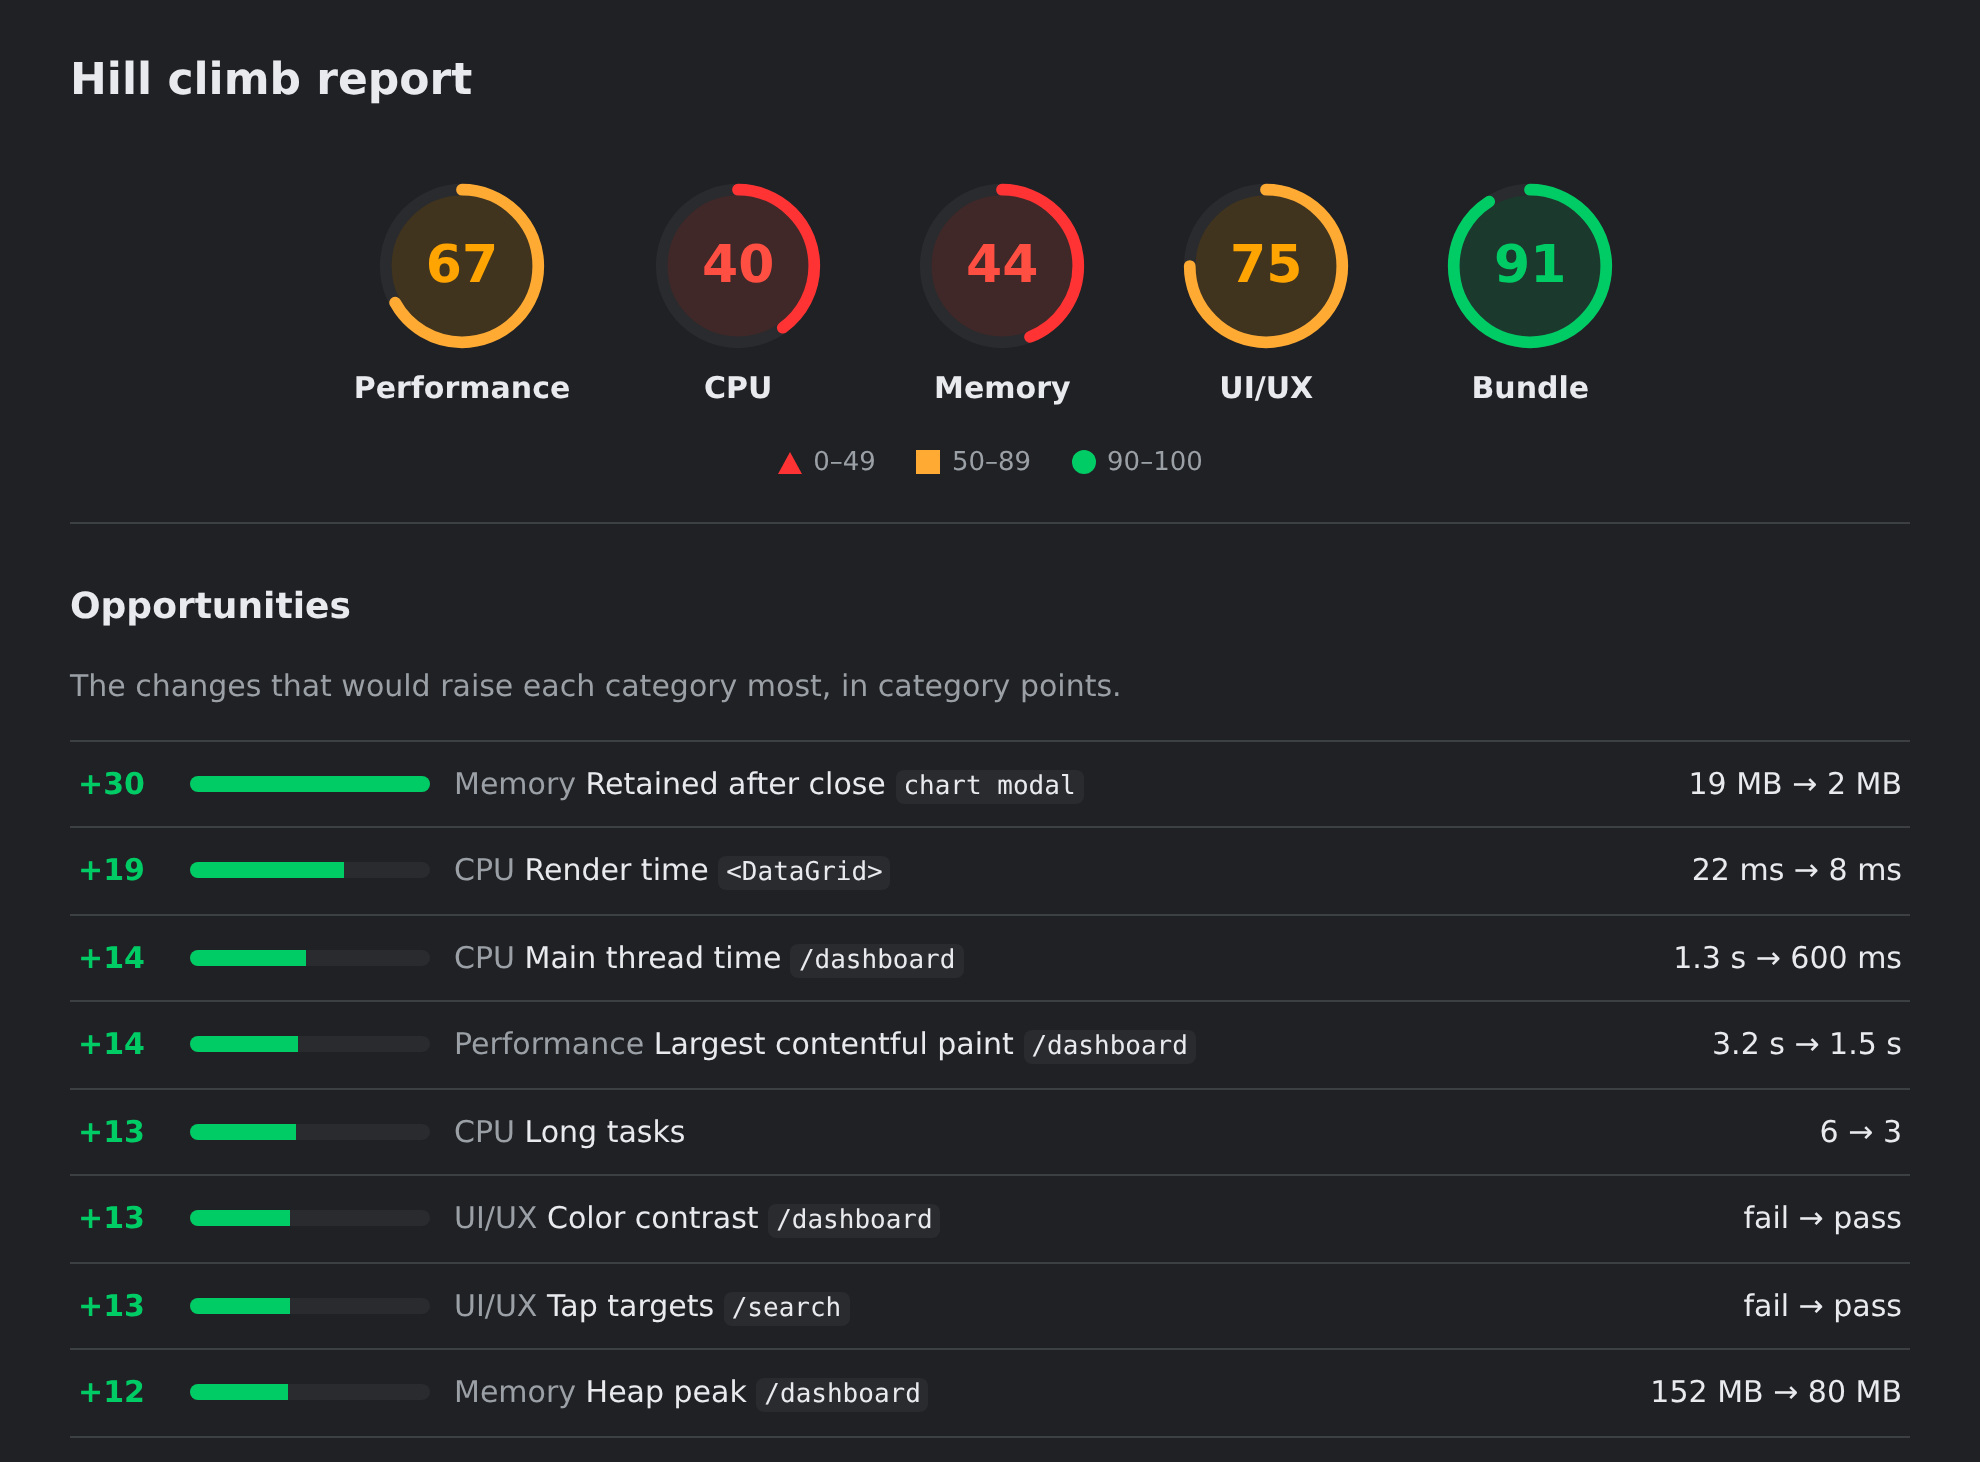
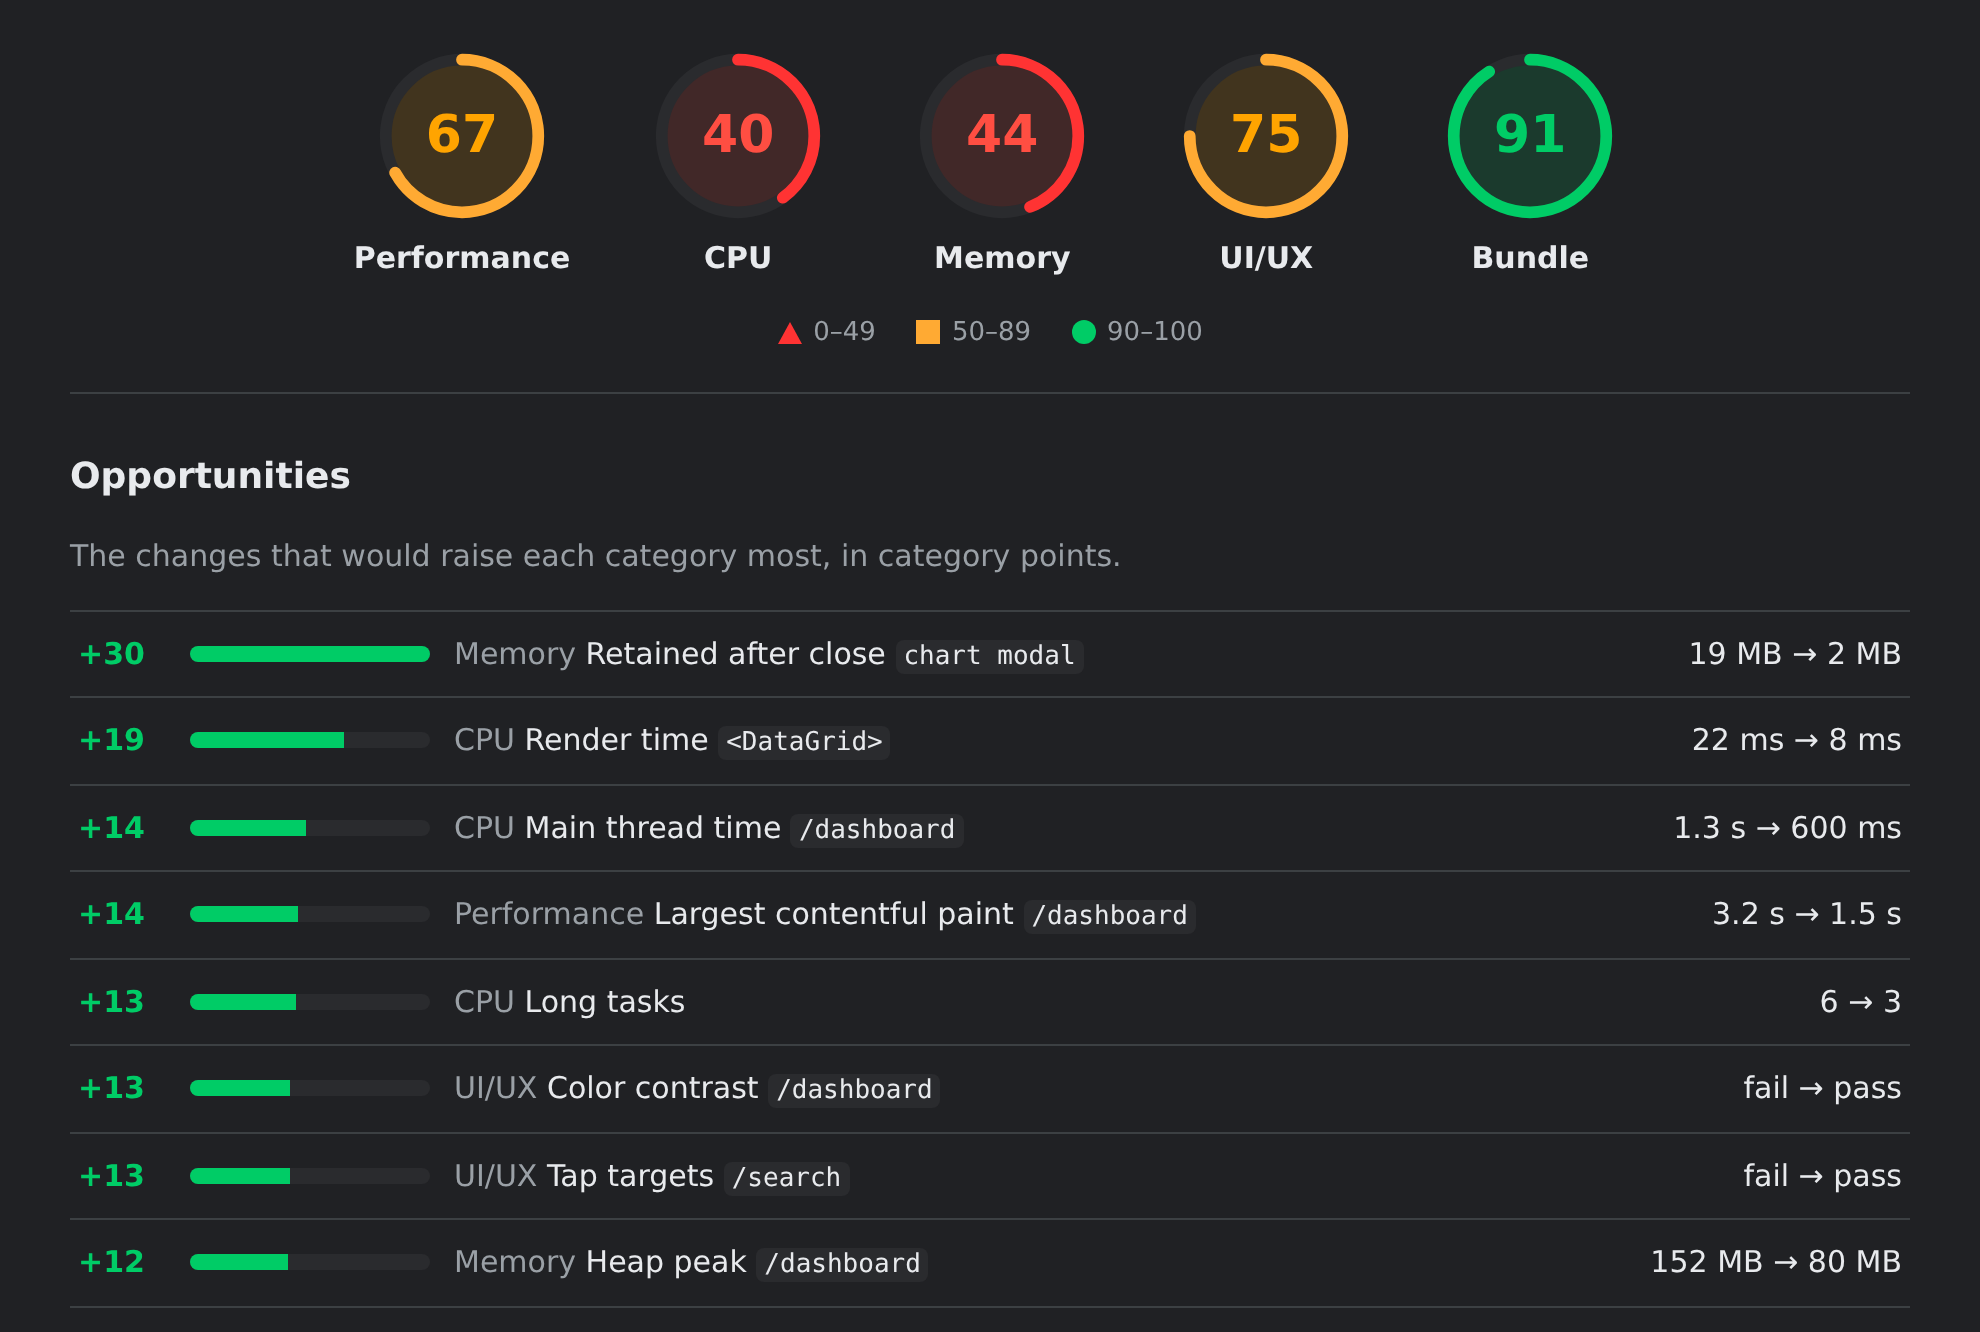
docs: move the report screenshot above Overview in README.md and crop its title
report-light.png and report-dark.png now start at the category gauges, without the "Hill climb report" heading, and README.md shows them below the navigation links. They are captured from the same Atlas showcase report as before.

Amp-Thread-ID: https://ampcode.com/threads/T-01a20f59-9770-72f3-9088-4af0ba0336da

diff --git a/README.md b/README.md
@@ -8,6 +8,11 @@
   <a href="#overview">Overview</a> · <a href="#problem">Problem</a> · <a href="#solution">Solution</a> · <a href="#install">Install</a> · <a href="#usage">Usage</a> · <a href="#github-action">GitHub Action</a> · <a href="docs/README.md">Documentation</a>
 </p>
 
+<picture>
+  <source media="(prefers-color-scheme: dark)" srcset=".github/report-dark.png">
+  <img alt="A report.html with gauges for performance, CPU, memory, UI/UX, and bundle, then its opportunities" src=".github/report-light.png">
+</picture>
+
 ## Overview
 
 Uphill scores a project against its own targets. A metric is anything a script can measure: bundle size, page load time, request latency, memory, test coverage, lint warnings, or an eval score. Uphill runs the scripts, scores each metric from 0 to 100, and names the fixes worth the most points.
@@ -41,12 +46,7 @@ Opportunities
   +15  footprint  bundle-size  6.9 kB → 5 kB
 ```
 
-Each run also writes `.uphill/report.html`, with a gauge per category and the opportunities worth the most points. This report scores a web dashboard on page speed, CPU, memory, UI/UX checks, and bundle size.
-
-<picture>
-  <source media="(prefers-color-scheme: dark)" srcset=".github/report-dark.png">
-  <img alt="A report.html with gauges for performance, CPU, memory, UI/UX, and bundle, then its opportunities" src=".github/report-light.png">
-</picture>
+Each run also writes `.uphill/report.html`, with a gauge per category and the opportunities worth the most points, like the report at the top of this page.
 
 ## Install
 
